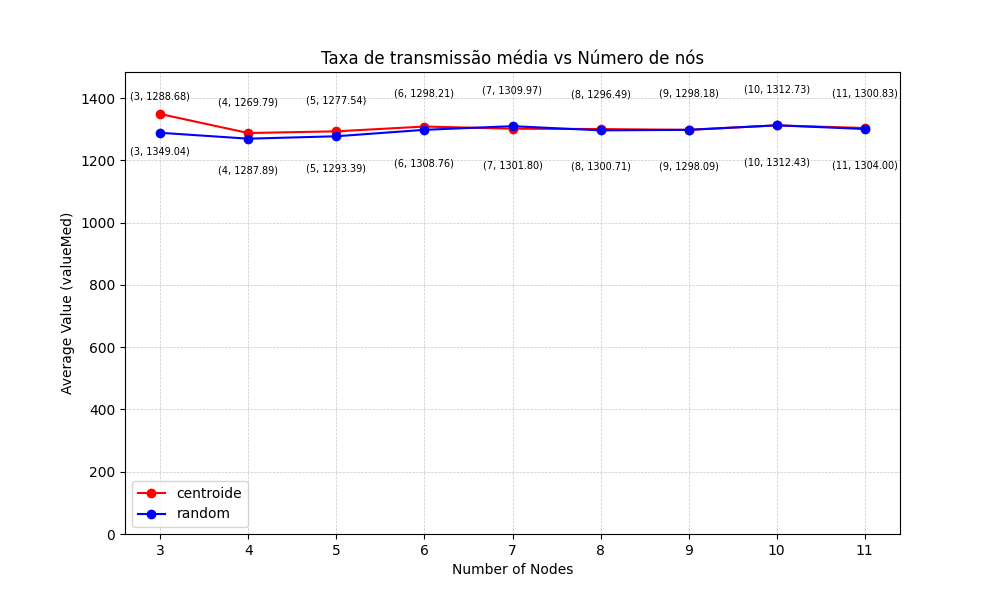
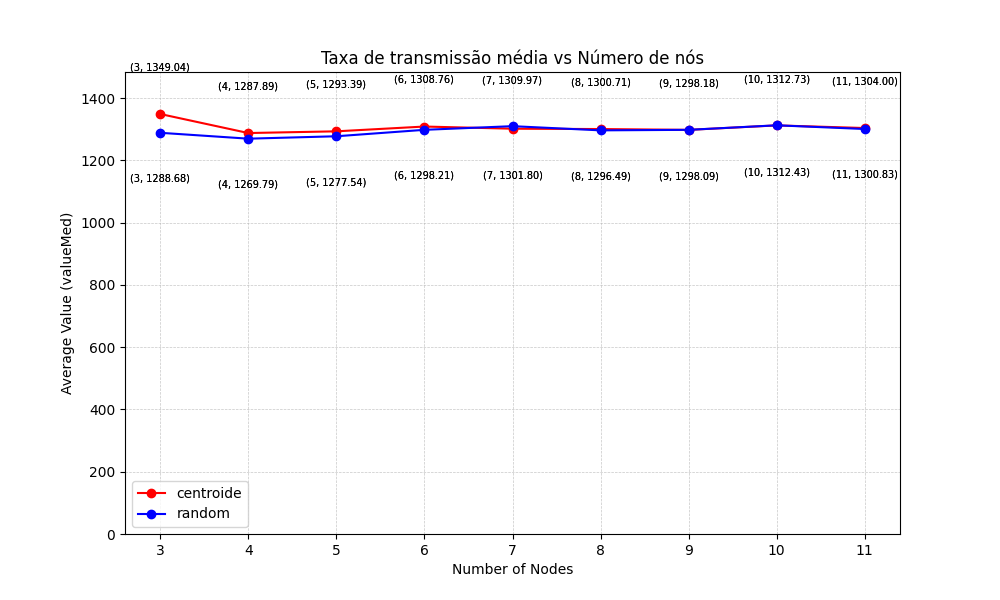
perfumaria

diff --git a/vant-analizer.py b/vant-analizer.py
@@ -70,6 +70,8 @@ class Graph:
         density = num_edges / max_possible_edges
         return density
 
+
+
 def plot(pasta, values1, values2, title, filename, values1Lable, values2Lable):
     # Sort values1 and values2 by num_nodes (second element of the tuple)
     values1.sort(key=lambda x: int(x[1]))
@@ -85,23 +87,43 @@ def plot(pasta, values1, values2, title, filename, values1Lable, values2Lable):
 
     # Plot values1
     plt.plot(num_nodes1, value1, color='r', marker='o', label=values1Lable)
-    for i, v in enumerate(value1):
-        plt.text(num_nodes1[i], v - 0.1 * max(value1), f'({num_nodes1[i]}, {v:.2f})', ha='center', va='bottom', fontsize=7, color='black')
+    for i, (v1, n1) in enumerate(zip(value1, num_nodes1)):
+        # Verifica o valor correspondente em values2 para o mesmo num_nodes
+        idx2 = num_nodes2.index(n1)
+        v2 = value2[idx2]
+
+        # Determina se o valor de value1 ou value2 é maior e posiciona o rótulo
+        if v1 > v2:
+            plt.text(n1, v1 + 0.1 * max(value1), f'({n1}, {v1:.2f})', ha='center', va='bottom', fontsize=7, color='black')
+            plt.text(n1, v2 - 0.1 * max(value2), f'({n1}, {v2:.2f})', ha='center', va='top', fontsize=7, color='black')
+        else:
+            plt.text(n1, v2 + 0.1 * max(value2), f'({n1}, {v2:.2f})', ha='center', va='bottom', fontsize=7, color='black')
+            plt.text(n1, v1 - 0.1 * max(value1), f'({n1}, {v1:.2f})', ha='center', va='top', fontsize=7, color='black')
 
     # Plot values2
     plt.plot(num_nodes2, value2, color='b', marker='o', label=values2Lable)
-    for i, v in enumerate(value2):
-        plt.text(num_nodes2[i], v + 0.1 * max(value2), f'({num_nodes2[i]}, {v:.2f})', ha='center', va='top', fontsize=7, color='black')
+    for i, (v2, n2) in enumerate(zip(value2, num_nodes2)):
+        # Verifica o valor correspondente em values1 para o mesmo num_nodes
+        idx1 = num_nodes1.index(n2)
+        v1 = value1[idx1]
+
+        # Determina se o valor de value1 ou value2 é maior e posiciona o rótulo
+        if v2 > v1:
+            plt.text(n2, v2 + 0.1 * max(value2), f'({n2}, {v2:.2f})', ha='center', va='bottom', fontsize=7, color='black')
+            plt.text(n2, v1 - 0.1 * max(value1), f'({n2}, {v1:.2f})', ha='center', va='top', fontsize=7, color='black')
+        else:
+            plt.text(n2, v1 + 0.1 * max(value1), f'({n2}, {v1:.2f})', ha='center', va='bottom', fontsize=7, color='black')
+            plt.text(n2, v2 - 0.1 * max(value2), f'({n2}, {v2:.2f})', ha='center', va='top', fontsize=7, color='black')
 
     plt.xlabel('Number of Nodes')
     plt.ylabel('Average Value (valueMed)')
     plt.title(title)
-    plt.ylim(0, max(max(value1), max(value2)) * 1.1)  
+    plt.ylim(0, max(max(value1), max(value2)) * 1.1)
     plt.grid(True, which='both', linestyle='--', linewidth=0.5, alpha=0.7)
     plt.legend()
 
     plt.savefig(os.path.join(pasta, filename))
-    #plt.show()
+    # plt.show()
 
 def agrupar_e_calcular_media(dados):
     grupos = defaultdict(list)
@@ -121,12 +143,12 @@ def plot_density_comparison(pasta, current, previous, filename, title):
     y_current = [x[1] for x in current_avg]
     y_previous = [x[1] for x in previous_avg]
 
-    x = np.arange(len(x_labels))  # multiplica por 2 para dar mais espaço entre os grupos
+    x = np.arange(len(x_labels))
     width = 0.45
 
     fig, ax = plt.subplots(figsize=(10, 6))
-    ax.bar(x - width/2, y_previous, width, label='Densidade Anterior', color='skyblue')
-    ax.bar(x + width/2, y_current, width, label='Densidade Atual', color='orange')
+    bars_prev = ax.bar(x - width/2, y_previous, width, label='Densidade Anterior', color='skyblue')
+    bars_curr = ax.bar(x + width/2, y_current, width, label='Densidade Atual', color='red')
 
     ax.set_xlabel('Quantidade de Drones')
     ax.set_ylabel('Densidade Média')
@@ -137,19 +159,40 @@ def plot_density_comparison(pasta, current, previous, filename, title):
     ax.grid(True, linestyle='--', alpha=0.5)
 
     minimo = min(min(y_previous), min(y_current))
+    ax.set_ylim(minimo - 0.1, 1.1)
 
-    ax.set_ylim(minimo-0.1, 1.1)  # ou qualquer faixa que faça sentido para seus dados
+    # Fonte adaptável
+    n_barras = len(x_labels)
+    fontsize = max(6, 12 - n_barras // 5)
 
-    bars_prev = ax.bar(x - width/2, y_previous, width, label='Densidade Anterior', color='skyblue')
-    bars_curr = ax.bar(x + width/2, y_current, width, label='Densidade Atual', color='red')
+    def add_vertical_labels(bars1, bars2):
+        for bar1, bar2 in zip(bars1, bars2):
+            h1 = bar1.get_height()
+            h2 = bar2.get_height()
+            offset = (ax.get_ylim()[1] - ax.get_ylim()[0]) * 0.01  # Deslocamento base
 
-    # Adiciona os rótulos nas barras com padding
-    ax.bar_label(bars_prev, fmt='%.3f', padding=5, fontsize=10)  # Ajustando tamanho e padding
-    ax.bar_label(bars_curr, fmt='%.3f', padding=5, fontsize=10)
+            # Adiciona os valores das barras em vertical (sempre em cima das barras)
+            ax.text(bar1.get_x() + bar1.get_width() / 2,
+                    h1 + offset,
+                    f'{h1:.3f}',
+                    ha='center',
+                    va='bottom',
+                    rotation=90,
+                    fontsize=fontsize)
 
-    plt.savefig(os.path.join(pasta, filename))
+            ax.text(bar2.get_x() + bar2.get_width() / 2,
+                    h2 + offset,
+                    f'{h2:.3f}',
+                    ha='center',
+                    va='bottom',
+                    rotation=90,
+                    fontsize=fontsize)
+
+    add_vertical_labels(bars_prev, bars_curr)
+
     plt.tight_layout()
-    #plt.show()
+    plt.savefig(os.path.join(pasta, filename))
+    # plt.show()
 
 def consolidateResults(values):
     values_zipped, num_nodes = zip(*values)
